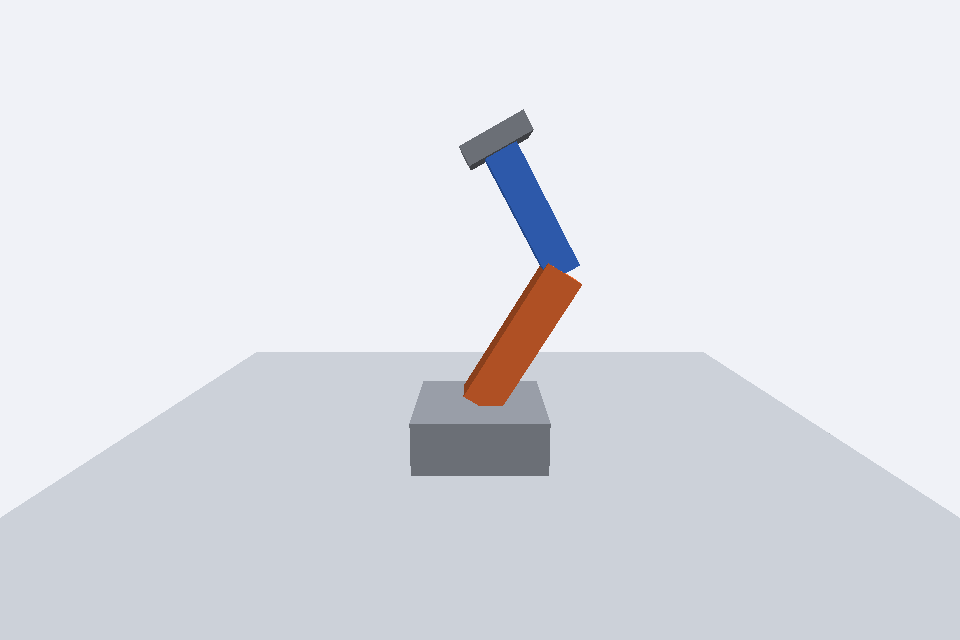
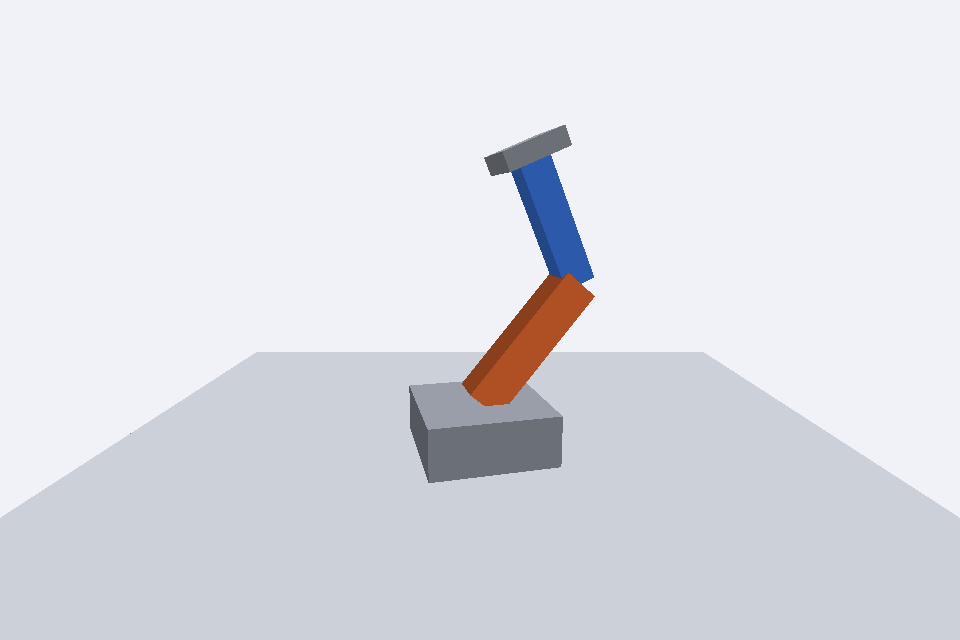
Entrega braco robotico com captura e explicacao

Changed region(s): [[0.4688, 0.1562, 0.625, 0.625], [0.4062, 0.5938, 0.5, 0.75], [0.5312, 0.625, 0.5938, 0.75]]

diff --git a/Aula_GrafoCena/alunos/README.md b/Aula_GrafoCena/alunos/README.md
@@ -1,60 +1,13 @@
-# Aula de Grafo de Cena: Python e OpenGL
-Prof. Rodrigo Fernandes dos Santos. Computação Gráfica, Unipac Barbacena.
+# Braço robótico
 
-## Ambiente
-Python 3.11 a 3.13, Pygame 2.6.1, PyOpenGL 3.1.10 e NumPy 1.26 ou 2.x.
-A placa de vídeo precisa oferecer OpenGL 3.2 core.
+Disciplina: Computação Gráfica
 
-## Windows (PowerShell)
-Abra o terminal na pasta `alunos`.
-```powershell
-py -3 -m venv .venv
-.venv\Scripts\python.exe -m pip install -r requirements.txt
-.venv\Scripts\python.exe demo1_cena.py
-.venv\Scripts\python.exe demo2_hierarquia.py
-.venv\Scripts\python.exe demo3_camera.py
-```
+Atividade: Braço robótico
 
-## macOS (Terminal)
-Abra o terminal na pasta `alunos`.
-```bash
-python3 -m venv .venv
-.venv/bin/python -m pip install -r requirements.txt
-.venv/bin/python demo1_cena.py
-.venv/bin/python demo2_hierarquia.py
-.venv/bin/python demo3_camera.py
-```
+Integrantes: Gabriel Possa Lima e Darlan José dos Santos
 
-No PyCharm, abra a pasta `alunos` como projeto e execute cada arquivo com **Run**.
+Descrição: Um pivô no topo da base sustenta o braço laranja pela extremidade inferior. Outro pivô na extremidade superior do braço sustenta o antebraço azul, que leva a garra cinza. A hierarquia transmite a rotação da base e das articulações aos segmentos descendentes.
 
-ESC fecha a janela. P salva a captura em `capturas/resultado.png`.
+Resposta da questão: As caixas são criadas com a origem no centro; se girassem diretamente, rodariam em torno desse centro, e não da articulação. Os pivôs `Object3D` colocam a origem da rotação no ombro e no cotovelo. Pela hierarquia do grafo de cena, girar o ombro leva também cotovelo, antebraço e garra, enquanto girar o cotovelo move apenas o antebraço e a garra.
 
-## Demonstrações
-| Arquivo | O que mostra | Teclas |
-|---|---|---|
-| `demo1_cena.py` | A receita: Renderer, Scene, Camera e Mesh (Geometry + Material) | — |
-| `demo2_hierarquia.py` | Sistema solar com pivôs (`Object3D` vazio) | ESPAÇO pausa |
-| `demo3_camera.py` | A câmera como Object3D, presa a um "rig" | WASD, QE, RF, setas |
-
-## Organização
-- `core/`: `Base`, `Matrix`, `Attribute`, `Uniform`, `Object3D`, `Scene`, `Camera`, `Mesh` e `Renderer`.
-- `geometry/`: `Geometry` e `BoxGeometry` (posições e uma cor por face).
-- `material/`: `Material` e `BasicMaterial` (shaders com `baseColor` e cores por vértice).
-- `formas.py`: `caixa(largura, altura, profundidade, cor)` cria uma Mesh em forma de caixa.
-- `atividade_braco.py`: arquivo inicial da atividade (veja `ATIVIDADE.md`).
-
-## Convenções
-- `getWorldMatrix() = pai.getWorldMatrix() @ transform`.
-- `translate`, `rotateX/Y/Z` e `scale` são **locais** por padrão (`localCoord=True`, multiplica à direita).
-- `setPosition` troca só a translação da matriz local, sem mexer na rotação.
-- Velocidades em unidades ou radianos **por segundo**, multiplicadas por `self.deltaTime`.
-- `self.isKeyPressed('w')` é contínuo; `self.isKeyDown('space')` vale só no quadro em que a tecla foi apertada.
-
-## Problemas comuns
-- O objeto não aparece: ele não foi adicionado à cena (nem a um pai que está na cena).
-- Gira em torno do centro em vez da ponta: falta um pivô (`Object3D`) na articulação.
-- Filho gira junto com o "irmão": confira qual objeto é o pai em `add`.
-- `ModuleNotFoundError: core`: execute a partir da pasta `alunos`.
-
-## Referência
-STEMKOSKI, Lee; PASCALE, Michael. *Developing graphics frameworks with Python and OpenGL*. Boca Raton: CRC Press, 2022. Capítulo 4 (A Scene Graph Framework).
+![resultado](capturas/resultado.png)
